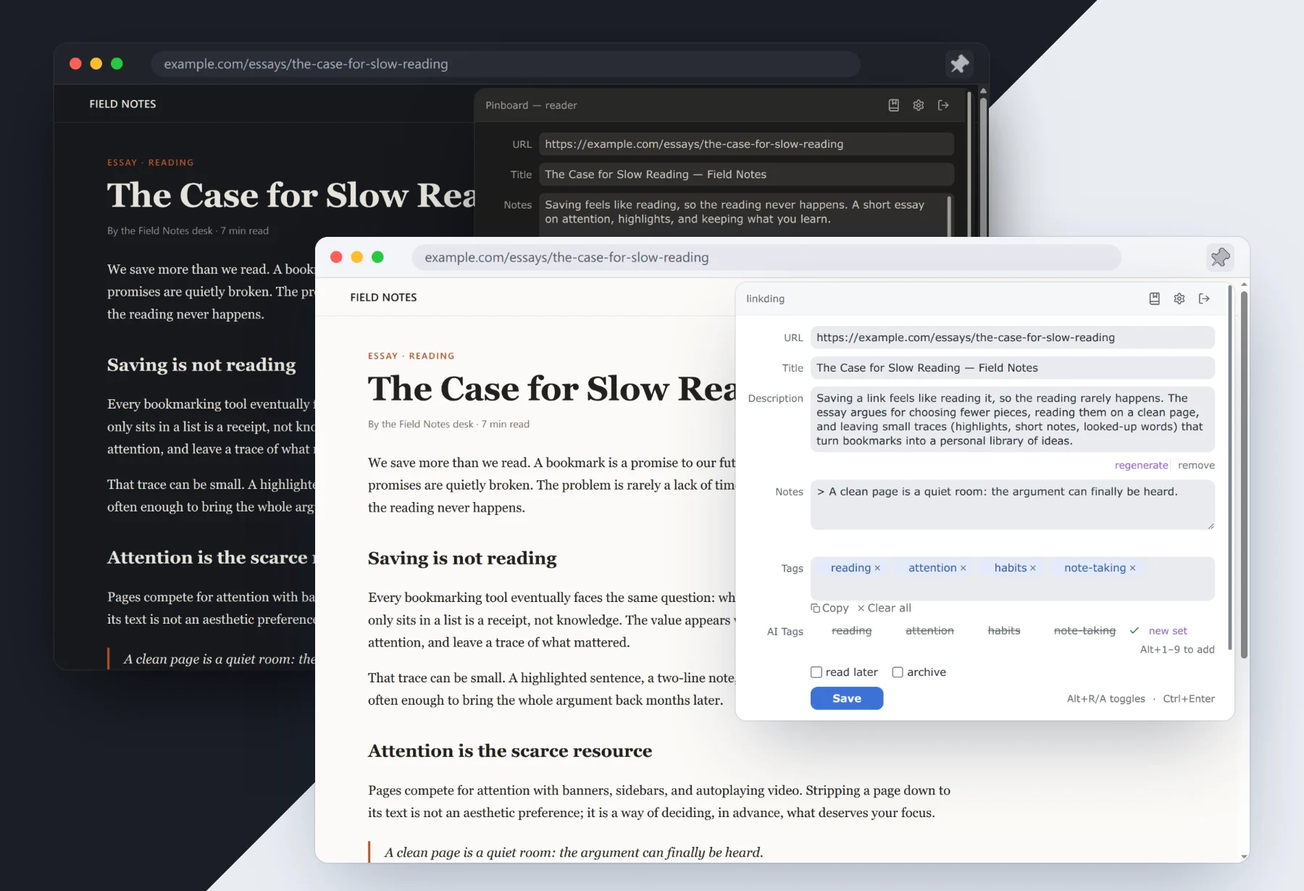
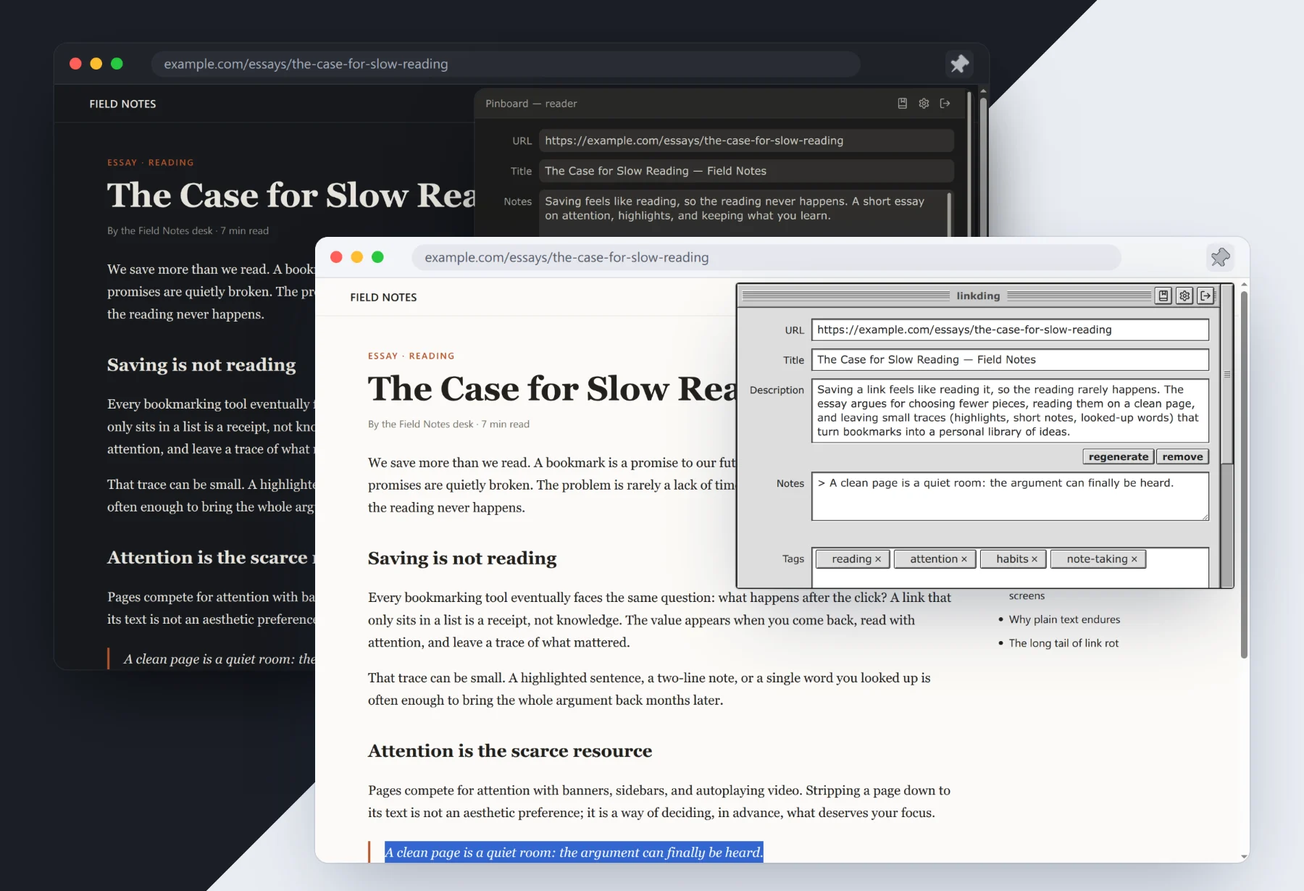
docs(readme): showcase Platinum theme and update 9-locale copy

diff --git a/docs/cws-assets/store-descriptions.md b/docs/cws-assets/store-descriptions.md
@@ -38,7 +38,7 @@
 - Send or download: send articles to your notes app or your own webhook, or save them as e-books for your e-reader.
 
 # Make Pinboard yours
-- 13 themes for pinboard.in: light and dark looks for the site itself, plus room for your own custom CSS.
+- 15 themes for pinboard.in: light and dark looks for the site plus room for your own custom CSS, and classic Platinum can style the extension too.
 - Tidy your tags: merge near-duplicates and prune the ones you rarely use.
 - Auto-archive to the Wayback Machine: pages you save stay readable after the original link dies.
 ```
@@ -69,7 +69,7 @@
 - 发送或下载：把文章发到常用的笔记应用或你自己的 webhook，或者存成电子书放进阅读器。
 
 # 个性化 Pinboard
-- 13 套 pinboard.in 主题：给网站本身换上浅色或深色外观，还能叠加自定义 CSS。
+- 15 套 pinboard.in 主题：给网站本身换上浅色或深色外观并支持自定义 CSS，经典 Platinum 也能套用到扩展界面。
 - 标签治理：合并近似标签，清理不常用的标签。
 - 自动存档到 Wayback Machine：保存过的网页，原链接失效后仍能找回。
 ```
@@ -100,7 +100,7 @@
 - 傳送或下載：把文章傳到常用的筆記應用程式或你自己的 webhook，或存成電子書放進閱讀器。
 
 # 個人化 Pinboard
-- 13 套 pinboard.in 佈景主題：替網站本身換上淺色或深色外觀，還可疊加自訂 CSS。
+- 15 套 pinboard.in 佈景主題：替網站本身換上淺色或深色外觀並支援自訂 CSS，經典 Platinum 也能套用到擴充功能介面。
 - 標籤治理：合併相近標籤，清理不常用的標籤。
 - 自動存檔到 Wayback Machine：儲存過的網頁，原連結失效後仍能找回。
 ```
@@ -131,7 +131,7 @@
 - 傳送或下載：把文章傳到常用的筆記應用程式或你自己的 webhook，或存成電子書放進閱讀器。
 
 # 個人化
-- 13 套 pinboard.in 佈景主題：為網站本身換上淺色或深色外觀，更可疊加自訂 CSS。
+- 15 套 pinboard.in 佈景主題：為網站本身換上淺色或深色外觀並支援自訂 CSS，經典 Platinum 亦可應用於擴充功能介面。
 - 標籤治理：合併相近標籤，清理少用的標籤。
 - 自動存檔至 Wayback Machine：儲存過的網頁，即使原連結失效仍可閱讀。
 ```
@@ -162,7 +162,7 @@
 - Senden oder herunterladen: Artikel an deine Notiz-App oder deinen eigenen Webhook senden oder als E-Book für den E-Reader speichern.
 
 # Pinboard nach deinem Geschmack
-- 13 Themes für pinboard.in: helle und dunkle Looks für die Seite selbst, dazu dein eigenes CSS.
+- 15 Themes für pinboard.in: helle und dunkle Looks für die Seite selbst sowie eigenes CSS; das klassische Platinum-Theme gestaltet auf Wunsch auch die Erweiterung.
 - Tags aufräumen: ähnliche Tags zusammenführen und selten genutzte ausmisten.
 - Automatisch in die Wayback Machine archivieren: Gespeicherte Seiten bleiben lesbar, auch wenn der Originallink nicht mehr funktioniert.
 ```
@@ -193,7 +193,7 @@
 - Envoyer ou télécharger : envoyez vos articles vers votre application de notes ou votre propre webhook, ou enregistrez-les en livre numérique pour votre liseuse.
 
 # Un Pinboard à votre image
-- 13 thèmes pour pinboard.in : des apparences claires et sombres pour le site lui-même, plus votre CSS personnalisé.
+- 15 thèmes pour pinboard.in : des apparences claires et sombres pour le site lui-même avec votre CSS personnalisé, et le thème classique Platinum habille aussi l’extension.
 - Nettoyage des étiquettes : fusionnez les étiquettes quasi identiques et élaguez celles qui servent peu.
 - Archivage automatique dans la Wayback Machine : les pages enregistrées restent lisibles même quand le lien d’origine disparaît.
 ```
@@ -224,7 +224,7 @@
 - 送信もダウンロードも：記事を普段使いのノートアプリや自分の webhook に送ったり、電子書籍として保存してリーダーで読んだりできます。
 
 # カスタマイズ
-- pinboard.in 用テーマ 13 種：サイト自体をライトにもダークにも着せ替えられ、自分のカスタム CSS も重ねられます。
+- pinboard.in 用テーマ 15 種：サイト自体をライトやダークに着せ替えられ独自 CSS も重ねられるほか、クラシックな Platinum は拡張機能にも適用できます。
 - タグ整理：似たタグを統合し、ほとんど使わないタグを片付けます。
 - Wayback Machine へ自動アーカイブ：保存したページは、元のリンクが切れても読めます。
 ```
@@ -255,7 +255,7 @@
 - Wyślij albo pobierz — wyślij artykuł do swojej aplikacji z notatkami lub własnego webhooka albo zapisz go jako e-book na czytnik.
 
 # Pinboard po Twojemu
-- 13 motywów dla pinboard.in — jasne i ciemne wersje samej witryny oraz miejsce na własny CSS.
+- 15 motywów dla pinboard.in — jasne i ciemne wersje samej witryny oraz własny CSS, a klasyczny motyw Platinum zmienia też wygląd rozszerzenia.
 - Porządki w tagach — scalaj niemal identyczne tagi i usuwaj te, których rzadko używasz.
 - Automatyczna archiwizacja w Wayback Machine — zapisane strony da się przeczytać nawet wtedy, gdy oryginalny link przestanie działać.
 ```
@@ -286,7 +286,7 @@
 - Отправить или скачать — отправляйте статьи в своё приложение для заметок или на собственный вебхук либо сохраняйте их как электронные книги для читалки.
 
 # Pinboard под себя
-- 13 тем для pinboard.in — светлое и тёмное оформление самого сайта плюс место для своего CSS.
+- 15 тем для pinboard.in — светлое и тёмное оформление самого сайта и место для своего CSS, а классическая тема Platinum оформляет и само расширение.
 - Порядок в тегах — объединяйте почти одинаковые теги и убирайте те, что почти не используете.
 - Автоархив в Wayback Machine — сохранённые страницы можно будет прочитать, даже когда исходная ссылка перестанет работать.
 ```

diff --git a/README.ru.md b/README.ru.md
@@ -2,7 +2,7 @@
 
 [English](README.md) | [简体中文](README.zh-CN.md) | [繁體中文](README.zh-TW.md) | [繁體中文（香港）](README.zh-HK.md) | [Deutsch](README.de.md) | [Français](README.fr.md) | [日本語](README.ja.md) | [Polski](README.pl.md) | **Русский**
 
-Расширение Chrome для [Pinboard](https://pinboard.in), [Karakeep](https://karakeep.app) и [linkding](https://linkding.link): AI-теги и краткое содержание, режим чтения с переводом и выделениями, а также 13 тем для pinboard.in.
+Расширение Chrome для [Pinboard](https://pinboard.in), [Karakeep](https://karakeep.app) и [linkding](https://linkding.link): AI-теги и краткое содержание, режим чтения с переводом и выделениями, а также 15 тем для pinboard.in.
 
 > **Примечание:** Выберите сервис закладок в настройках. Karakeep и linkding работают без аккаунта Pinboard. Pinboard — независимый **платный** сервис, для которого нужны собственный аккаунт и API-токен. Это стороннее расширение не связано с Pinboard, не спонсируется и не одобряется им.
 
@@ -10,7 +10,7 @@
 [![Version](https://img.shields.io/github/v/release/pine2D/Pinboard-Bookmark-Enhanced?label=version)](https://github.com/pine2D/Pinboard-Bookmark-Enhanced/releases/latest)
 [![License](https://img.shields.io/badge/license-MIT-green)](LICENSE)
 
-![Сохранение с AI-тегами и резюме, тёмная и светлая темы](docs/screenshots/readme/hero.webp)
+![Сохранение с AI-тегами и резюме, тёмная и светлая тема Platinum](docs/screenshots/readme/hero.webp)
 
 [![Минутное видео: сохранить, прочитать, оставить себе](docs/screenshots/readme/promo-video.webp)](https://youtu.be/YWvA_Vux0CI)
 
@@ -45,11 +45,11 @@
 ![Сохранённое слово с контекстом и колонкой словаря](docs/screenshots/readme/vocab.webp)
 
 ### Pinboard под себя
-- **13 тем для pinboard.in** — светлое и тёмное оформление сайта, плюс собственный CSS.
+- **15 тем для pinboard.in** — светлое и тёмное оформление сайта со своим CSS, а классическая тема Platinum оформляет и само расширение.
 - **Порядок в тегах** — объединяйте почти одинаковые теги и убирайте те, что почти не используете.
 - **Автоархив в [Wayback Machine](https://web.archive.org)** — сохранённые страницы можно будет прочитать, даже когда исходная ссылка перестанет работать.
 
-![13 тем для pinboard.in](docs/screenshots/readme/themes.webp)
+![15 тем для pinboard.in](docs/screenshots/readme/themes.webp)
 
 ## Установка
 

diff --git a/README.de.md b/README.de.md
@@ -2,7 +2,7 @@
 
 [English](README.md) | [简体中文](README.zh-CN.md) | [繁體中文](README.zh-TW.md) | [繁體中文（香港）](README.zh-HK.md) | **Deutsch** | [Français](README.fr.md) | [日本語](README.ja.md) | [Polski](README.pl.md) | [Русский](README.ru.md)
 
-Eine Chrome-Erweiterung für [Pinboard](https://pinboard.in), [Karakeep](https://karakeep.app) und [linkding](https://linkding.link): KI-Tags und Zusammenfassungen, ein Reader mit Übersetzung und Markierungen sowie 13 Themes für pinboard.in.
+Eine Chrome-Erweiterung für [Pinboard](https://pinboard.in), [Karakeep](https://karakeep.app) und [linkding](https://linkding.link): KI-Tags und Zusammenfassungen, ein Reader mit Übersetzung und Markierungen sowie 15 Themes für pinboard.in.
 
 > **Hinweis:** Wähle deinen Lesezeichendienst in den Einstellungen. Karakeep und linkding funktionieren ohne Pinboard-Konto. Pinboard ist ein unabhängiger, **kostenpflichtiger** Dienst und erfordert ein eigenes Konto mit API-Token. Diese Erweiterung stammt von einem Drittanbieter, steht in keiner Verbindung zu Pinboard und wird von Pinboard weder gesponsert noch befürwortet.
 
@@ -10,7 +10,7 @@ Eine Chrome-Erweiterung für [Pinboard](https://pinboard.in), [Karakeep](https:/
 [![Version](https://img.shields.io/github/v/release/pine2D/Pinboard-Bookmark-Enhanced?label=version)](https://github.com/pine2D/Pinboard-Bookmark-Enhanced/releases/latest)
 [![License](https://img.shields.io/badge/license-MIT-green)](LICENSE)
 
-![Speichern mit KI-Tags und Zusammenfassung, in dunklem und hellem Theme](docs/screenshots/readme/hero.webp)
+![Speichern mit KI-Tags und Zusammenfassung, im dunklen und hellen Platinum-Theme](docs/screenshots/readme/hero.webp)
 
 [![1-Minuten-Video: speichern, lesen, behalten](docs/screenshots/readme/promo-video.webp)](https://youtu.be/YWvA_Vux0CI)
 
@@ -45,11 +45,11 @@ Eine Chrome-Erweiterung für [Pinboard](https://pinboard.in), [Karakeep](https:/
 ![Gespeichertes Wort mit Kontext und Wörterbuchspalte](docs/screenshots/readme/vocab.webp)
 
 ### Pinboard nach deinem Geschmack
-- **13 Themes für pinboard.in**: helle und dunkle Designs für die Website, dazu dein eigenes CSS.
+- **15 Themes für pinboard.in**: helle und dunkle Designs sowie eigenes CSS; das klassische Platinum-Theme gestaltet auf Wunsch auch die Erweiterung.
 - **Tags aufräumen**: ähnliche Tags zusammenführen und selten genutzte ausmisten.
 - **Automatisch in die [Wayback Machine](https://web.archive.org) archivieren**: Gespeicherte Seiten bleiben lesbar, auch wenn der Originallink nicht mehr funktioniert.
 
-![13 Themes für pinboard.in](docs/screenshots/readme/themes.webp)
+![15 Themes für pinboard.in](docs/screenshots/readme/themes.webp)
 
 ## Installation
 

diff --git a/README.fr.md b/README.fr.md
@@ -2,7 +2,7 @@
 
 [English](README.md) | [简体中文](README.zh-CN.md) | [繁體中文](README.zh-TW.md) | [繁體中文（香港）](README.zh-HK.md) | [Deutsch](README.de.md) | **Français** | [日本語](README.ja.md) | [Polski](README.pl.md) | [Русский](README.ru.md)
 
-Une extension Chrome pour [Pinboard](https://pinboard.in), [Karakeep](https://karakeep.app) et [linkding](https://linkding.link) : étiquettes et résumés par IA, lecteur avec traduction et surlignage, et 13 thèmes pour pinboard.in.
+Une extension Chrome pour [Pinboard](https://pinboard.in), [Karakeep](https://karakeep.app) et [linkding](https://linkding.link) : étiquettes et résumés par IA, lecteur avec traduction et surlignage, et 15 thèmes pour pinboard.in.
 
 > **Remarque :** Choisissez votre service de signets dans les paramètres. Karakeep et linkding fonctionnent sans compte Pinboard. Pinboard est un service indépendant **payant**, qui nécessite votre propre compte et votre jeton API. Cette extension tierce n’est ni affiliée à Pinboard, ni sponsorisée ou approuvée par Pinboard.
 
@@ -10,7 +10,7 @@ Une extension Chrome pour [Pinboard](https://pinboard.in), [Karakeep](https://ka
 [![Version](https://img.shields.io/github/v/release/pine2D/Pinboard-Bookmark-Enhanced?label=version)](https://github.com/pine2D/Pinboard-Bookmark-Enhanced/releases/latest)
 [![License](https://img.shields.io/badge/license-MIT-green)](LICENSE)
 
-![Enregistrement avec étiquettes et résumé par IA, en thème sombre et clair](docs/screenshots/readme/hero.webp)
+![Enregistrement avec étiquettes et résumé par IA, en thème sombre et Platinum clair](docs/screenshots/readme/hero.webp)
 
 [![Vidéo d’une minute : enregistrer, lire, garder](docs/screenshots/readme/promo-video.webp)](https://youtu.be/YWvA_Vux0CI)
 
@@ -45,11 +45,11 @@ Une extension Chrome pour [Pinboard](https://pinboard.in), [Karakeep](https://ka
 ![Mot enregistré avec son contexte et une colonne de dictionnaire](docs/screenshots/readme/vocab.webp)
 
 ### Un Pinboard à votre image
-- **13 thèmes pour pinboard.in** : des apparences claires et sombres pour le site, plus votre propre CSS.
+- **15 thèmes pour pinboard.in** : apparences claires et sombres avec votre propre CSS ; le thème classique Platinum habille aussi l’extension.
 - **Nettoyage des étiquettes** : fusionnez les étiquettes quasi identiques et élaguez celles qui servent peu.
 - **Archivage automatique dans la [Wayback Machine](https://web.archive.org)** : les pages enregistrées restent lisibles même quand le lien d’origine disparaît.
 
-![13 thèmes pour pinboard.in](docs/screenshots/readme/themes.webp)
+![15 thèmes pour pinboard.in](docs/screenshots/readme/themes.webp)
 
 ## Installation
 

diff --git a/README.ja.md b/README.ja.md
@@ -2,7 +2,7 @@
 
 [English](README.md) | [简体中文](README.zh-CN.md) | [繁體中文](README.zh-TW.md) | [繁體中文（香港）](README.zh-HK.md) | [Deutsch](README.de.md) | [Français](README.fr.md) | **日本語** | [Polski](README.pl.md) | [Русский](README.ru.md)
 
-[Pinboard](https://pinboard.in)、[Karakeep](https://karakeep.app)、[linkding](https://linkding.link) に対応した Chrome 拡張機能。AI タグと要約、翻訳・ハイライト付きリーダー、pinboard.in 用テーマ 13 種を備えています。
+[Pinboard](https://pinboard.in)、[Karakeep](https://karakeep.app)、[linkding](https://linkding.link) に対応した Chrome 拡張機能。AI タグと要約、翻訳・ハイライト付きリーダー、pinboard.in 用テーマ 15 種を備えています。
 
 > **注意:** 設定でブックマークサービスを選択します。Karakeep と linkding は Pinboard アカウントなしで使えます。Pinboard は独立した**有料**サービスで、自分のアカウントと API トークンが必要です。本拡張機能は第三者製で、Pinboard との提携・出資・公式の承認はありません。
 
@@ -10,7 +10,7 @@
 [![Version](https://img.shields.io/github/v/release/pine2D/Pinboard-Bookmark-Enhanced?label=version)](https://github.com/pine2D/Pinboard-Bookmark-Enhanced/releases/latest)
 [![License](https://img.shields.io/badge/license-MIT-green)](LICENSE)
 
-![AI タグと要約を付けて保存（ダーク／ライトテーマ）](docs/screenshots/readme/hero.webp)
+![AI タグと要約を付けて保存（ダーク／Platinum ライトテーマ）](docs/screenshots/readme/hero.webp)
 
 [![1 分の紹介動画：保存して、読んで、残す](docs/screenshots/readme/promo-video.webp)](https://youtu.be/YWvA_Vux0CI)
 
@@ -45,11 +45,11 @@
 ![保存した単語：文脈と辞書欄](docs/screenshots/readme/vocab.webp)
 
 ### カスタマイズ
-- **pinboard.in 用テーマ 13 種**：サイトの見た目をライトやダークに変えられ、自分の CSS も使えます。
+- **pinboard.in 用テーマ 15 種**：ライト／ダークの配色と独自 CSS に対応し、クラシックな Platinum は拡張機能にも適用できます。
 - **タグ整理**：似たタグを統合し、ほとんど使わないタグを片付けます。
 - **[Wayback Machine](https://web.archive.org) へ自動アーカイブ**：保存したページは、元のリンクが切れても読めます。
 
-![pinboard.in 用テーマ 13 種](docs/screenshots/readme/themes.webp)
+![pinboard.in 用テーマ 15 種](docs/screenshots/readme/themes.webp)
 
 ## インストール
 

diff --git a/README.pl.md b/README.pl.md
@@ -2,7 +2,7 @@
 
 [English](README.md) | [简体中文](README.zh-CN.md) | [繁體中文](README.zh-TW.md) | [繁體中文（香港）](README.zh-HK.md) | [Deutsch](README.de.md) | [Français](README.fr.md) | [日本語](README.ja.md) | **Polski** | [Русский](README.ru.md)
 
-Rozszerzenie Chrome dla [Pinboard](https://pinboard.in), [Karakeep](https://karakeep.app) i [linkding](https://linkding.link): tagi i streszczenia AI, czytnik z tłumaczeniem i wyróżnieniami oraz 13 motywów dla pinboard.in.
+Rozszerzenie Chrome dla [Pinboard](https://pinboard.in), [Karakeep](https://karakeep.app) i [linkding](https://linkding.link): tagi i streszczenia AI, czytnik z tłumaczeniem i wyróżnieniami oraz 15 motywów dla pinboard.in.
 
 > **Uwaga:** Wybierz usługę zakładek w ustawieniach. Karakeep i linkding działają bez konta Pinboard. Pinboard to niezależna, **płatna** usługa, która wymaga własnego konta i tokenu API. To rozszerzenie jest klientem zewnętrznym, niepowiązanym z Pinboard, niesponsorowanym ani nieautoryzowanym przez ten serwis.
 
@@ -10,7 +10,7 @@ Rozszerzenie Chrome dla [Pinboard](https://pinboard.in), [Karakeep](https://kara
 [![Version](https://img.shields.io/github/v/release/pine2D/Pinboard-Bookmark-Enhanced?label=version)](https://github.com/pine2D/Pinboard-Bookmark-Enhanced/releases/latest)
 [![License](https://img.shields.io/badge/license-MIT-green)](LICENSE)
 
-![Zapis z tagami i streszczeniem od AI, w motywie ciemnym i jasnym](docs/screenshots/readme/hero.webp)
+![Zapis z tagami i streszczeniem od AI, w motywie ciemnym i jasnym Platinum](docs/screenshots/readme/hero.webp)
 
 [![Minutowy film: zapisz, przeczytaj, zachowaj](docs/screenshots/readme/promo-video.webp)](https://youtu.be/YWvA_Vux0CI)
 
@@ -45,11 +45,11 @@ Rozszerzenie Chrome dla [Pinboard](https://pinboard.in), [Karakeep](https://kara
 ![Zapisane słówko z kontekstem i kolumną słownika](docs/screenshots/readme/vocab.webp)
 
 ### Pinboard po Twojemu
-- **13 motywów dla pinboard.in** — jasny i ciemny wygląd witryny, a do tego własny CSS.
+- **15 motywów dla pinboard.in** — jasny i ciemny wygląd witryny oraz własny CSS, a klasyczny motyw Platinum zmienia też wygląd rozszerzenia.
 - **Porządki w tagach** — scalaj niemal identyczne tagi i usuwaj te, których rzadko używasz.
 - **Automatyczna archiwizacja w [Wayback Machine](https://web.archive.org)** — zapisane strony da się przeczytać nawet wtedy, gdy oryginalny link przestanie działać.
 
-![13 motywów dla pinboard.in](docs/screenshots/readme/themes.webp)
+![15 motywów dla pinboard.in](docs/screenshots/readme/themes.webp)
 
 ## Instalacja
 

diff --git a/README.md b/README.md
@@ -2,7 +2,7 @@
 
 **English** | [简体中文](README.zh-CN.md) | [繁體中文](README.zh-TW.md) | [繁體中文（香港）](README.zh-HK.md) | [Deutsch](README.de.md) | [Français](README.fr.md) | [日本語](README.ja.md) | [Polski](README.pl.md) | [Русский](README.ru.md)
 
-A Chrome extension for [Pinboard](https://pinboard.in), [Karakeep](https://karakeep.app) and [linkding](https://linkding.link): AI tags and summaries, a reader with translation and highlights, and 13 themes for pinboard.in.
+A Chrome extension for [Pinboard](https://pinboard.in), [Karakeep](https://karakeep.app) and [linkding](https://linkding.link): AI tags and summaries, a reader with translation and highlights, and 15 themes for pinboard.in.
 
 > **Note:** Choose one bookmark service in Settings. Karakeep and linkding work without a Pinboard account. Pinboard is an independent **paid** service and requires your own account and API token. This third-party extension is not affiliated with, sponsored by, or endorsed by Pinboard.
 
@@ -10,7 +10,7 @@ A Chrome extension for [Pinboard](https://pinboard.in), [Karakeep](https://karak
 [![Version](https://img.shields.io/github/v/release/pine2D/Pinboard-Bookmark-Enhanced?label=version)](https://github.com/pine2D/Pinboard-Bookmark-Enhanced/releases/latest)
 [![License](https://img.shields.io/badge/license-MIT-green)](LICENSE)
 
-![Saving a page with AI tags and summary, in dark and light themes](docs/screenshots/readme/hero.webp)
+![Saving a page with AI tags and summary, in dark and Platinum light themes](docs/screenshots/readme/hero.webp)
 
 [![1-minute video tour: save it, read it, keep it](docs/screenshots/readme/promo-video.webp)](https://youtu.be/YWvA_Vux0CI)
 
@@ -45,11 +45,11 @@ A Chrome extension for [Pinboard](https://pinboard.in), [Karakeep](https://karak
 ![A saved word with its context and a dictionary column](docs/screenshots/readme/vocab.webp)
 
 ### Make Pinboard yours
-- **13 themes for pinboard.in**: light and dark looks for the site, plus your own CSS.
+- **15 themes for pinboard.in**: light and dark looks plus custom CSS, and classic Platinum can style the extension too.
 - **Tidy your tags**: merge near-duplicates and prune the ones you rarely use.
 - **Auto-archive to the [Wayback Machine](https://web.archive.org)**: pages you save stay readable after the original link dies.
 
-![13 themes for pinboard.in](docs/screenshots/readme/themes.webp)
+![15 themes for pinboard.in](docs/screenshots/readme/themes.webp)
 
 ## Install
 

diff --git a/README.zh-TW.md b/README.zh-TW.md
@@ -2,7 +2,7 @@
 
 [English](README.md) | [简体中文](README.zh-CN.md) | **繁體中文** | [繁體中文（香港）](README.zh-HK.md) | [Deutsch](README.de.md) | [Français](README.fr.md) | [日本語](README.ja.md) | [Polski](README.pl.md) | [Русский](README.ru.md)
 
-支援 [Pinboard](https://pinboard.in)、[Karakeep](https://karakeep.app) 和 [linkding](https://linkding.link) 的 Chrome 擴充功能：AI 標籤與摘要、支援翻譯與標記的閱讀器，以及 13 套 pinboard.in 佈景主題。
+支援 [Pinboard](https://pinboard.in)、[Karakeep](https://karakeep.app) 和 [linkding](https://linkding.link) 的 Chrome 擴充功能：AI 標籤與摘要、支援翻譯與標記的閱讀器，以及 15 套 pinboard.in 佈景主題。
 
 > **說明：** 在設定中選擇一種書籤服務。使用 Karakeep 或 linkding 不需要 Pinboard 帳號。Pinboard 是獨立的**付費**服務，使用時需自備帳號與 API Token。本擴充功能是第三方用戶端，與 Pinboard 無隸屬、贊助或背書關係。
 
@@ -10,7 +10,7 @@
 [![Version](https://img.shields.io/github/v/release/pine2D/Pinboard-Bookmark-Enhanced?label=version)](https://github.com/pine2D/Pinboard-Bookmark-Enhanced/releases/latest)
 [![License](https://img.shields.io/badge/license-MIT-green)](LICENSE)
 
-![AI 產生標籤與摘要後儲存，深色與淺色主題](docs/screenshots/readme/hero.webp)
+![AI 產生標籤與摘要後儲存，深色與 Platinum 淺色主題](docs/screenshots/readme/hero.webp)
 
 [![1 分鐘影片介紹：儲存、閱讀、留存](docs/screenshots/readme/promo-video.webp)](https://youtu.be/YWvA_Vux0CI)
 
@@ -45,11 +45,11 @@
 ![生詞詳情：原文語境與詞典參考欄](docs/screenshots/readme/vocab.webp)
 
 ### 個人化 Pinboard
-- **13 套 pinboard.in 佈景主題**：為網站換上淺色或深色外觀，還可疊加自訂 CSS。
+- **15 套 pinboard.in 佈景主題**：提供淺色與深色外觀及自訂 CSS；經典 Platinum 也能套用到擴充功能介面。
 - **標籤治理**：合併相近標籤，清理不常用的標籤。
 - **自動存檔到 [Wayback Machine](https://web.archive.org)**：儲存過的網頁，原連結失效後仍能找回。
 
-![13 套 pinboard.in 佈景主題](docs/screenshots/readme/themes.webp)
+![15 套 pinboard.in 佈景主題](docs/screenshots/readme/themes.webp)
 
 ## 安裝
 

diff --git a/README.zh-HK.md b/README.zh-HK.md
@@ -2,7 +2,7 @@
 
 [English](README.md) | [简体中文](README.zh-CN.md) | [繁體中文](README.zh-TW.md) | **繁體中文（香港）** | [Deutsch](README.de.md) | [Français](README.fr.md) | [日本語](README.ja.md) | [Polski](README.pl.md) | [Русский](README.ru.md)
 
-支援 [Pinboard](https://pinboard.in)、[Karakeep](https://karakeep.app) 和 [linkding](https://linkding.link) 的 Chrome 擴充功能：AI 標籤與摘要、支援翻譯與高亮的閱讀器，以及 13 套 pinboard.in 網站主題。
+支援 [Pinboard](https://pinboard.in)、[Karakeep](https://karakeep.app) 和 [linkding](https://linkding.link) 的 Chrome 擴充功能：AI 標籤與摘要、支援翻譯與高亮的閱讀器，以及 15 套 pinboard.in 網站主題。
 
 > **說明：** 在設定選擇一種書籤服務。使用 Karakeep 或 linkding 無需 Pinboard 帳號。Pinboard 是獨立的**付費**服務，使用時需自備帳號及 API Token。本擴充功能是第三方客戶端，與 Pinboard 沒有隸屬、贊助或認可關係。
 
@@ -10,7 +10,7 @@
 [![Version](https://img.shields.io/github/v/release/pine2D/Pinboard-Bookmark-Enhanced?label=version)](https://github.com/pine2D/Pinboard-Bookmark-Enhanced/releases/latest)
 [![License](https://img.shields.io/badge/license-MIT-green)](LICENSE)
 
-![AI 生成標籤與摘要後儲存，深色與淺色主題](docs/screenshots/readme/hero.webp)
+![AI 生成標籤與摘要後儲存，深色與 Platinum 淺色主題](docs/screenshots/readme/hero.webp)
 
 [![1 分鐘影片介紹：儲存、閱讀、留存](docs/screenshots/readme/promo-video.webp)](https://youtu.be/YWvA_Vux0CI)
 
@@ -45,11 +45,11 @@
 ![生詞詳情：原文語境與詞典參考欄](docs/screenshots/readme/vocab.webp)
 
 ### 個人化
-- **13 套 pinboard.in 佈景主題**：為網站換上淺色或深色外觀，亦可加上自訂 CSS。
+- **15 套 pinboard.in 佈景主題**：提供淺色與深色外觀及自訂 CSS；經典 Platinum 亦可應用於擴充功能介面。
 - **標籤治理**：合併相近標籤，清理少用的標籤。
 - **自動存檔至 [Wayback Machine](https://web.archive.org)**：儲存過的網頁，即使原連結失效仍可閱讀。
 
-![13 套 pinboard.in 佈景主題](docs/screenshots/readme/themes.webp)
+![15 套 pinboard.in 佈景主題](docs/screenshots/readme/themes.webp)
 
 ## 安裝
 

diff --git a/README.zh-CN.md b/README.zh-CN.md
@@ -2,7 +2,7 @@
 
 [English](README.md) | **简体中文** | [繁體中文](README.zh-TW.md) | [繁體中文（香港）](README.zh-HK.md) | [Deutsch](README.de.md) | [Français](README.fr.md) | [日本語](README.ja.md) | [Polski](README.pl.md) | [Русский](README.ru.md)
 
-支持 [Pinboard](https://pinboard.in)、[Karakeep](https://karakeep.app) 和 [linkding](https://linkding.link) 的 Chrome 扩展：AI 标签与摘要、带翻译和高亮的阅读器，以及 13 套 pinboard.in 站点主题。
+支持 [Pinboard](https://pinboard.in)、[Karakeep](https://karakeep.app) 和 [linkding](https://linkding.link) 的 Chrome 扩展：AI 标签与摘要、带翻译和高亮的阅读器，以及 15 套 pinboard.in 站点主题。
 
 > **说明：** 在设置中选择一种书签服务。使用 Karakeep 或 linkding 无需 Pinboard 账号。Pinboard 是独立的**付费**服务，使用时需自备账号和 API Token。本扩展是第三方客户端，与 Pinboard 官方无关，未获其赞助或认可。
 
@@ -10,7 +10,7 @@
 [![Version](https://img.shields.io/github/v/release/pine2D/Pinboard-Bookmark-Enhanced?label=version)](https://github.com/pine2D/Pinboard-Bookmark-Enhanced/releases/latest)
 [![License](https://img.shields.io/badge/license-MIT-green)](LICENSE)
 
-![AI 生成标签和摘要后保存，深色与浅色主题](docs/screenshots/readme/hero.webp)
+![AI 生成标签和摘要后保存，深色与 Platinum 浅色主题](docs/screenshots/readme/hero.webp)
 
 [![1 分钟视频介绍：保存、阅读、留存](docs/screenshots/readme/promo-video.webp)](https://youtu.be/YWvA_Vux0CI)
 
@@ -45,11 +45,11 @@
 ![生词详情：原文语境与词典参考栏](docs/screenshots/readme/vocab.webp)
 
 ### 个性化 Pinboard
-- **13 套 pinboard.in 主题**：给网站换上浅色或深色外观，还能叠加自定义 CSS。
+- **15 套 pinboard.in 主题**：提供浅色与深色外观及自定义 CSS；经典 Platinum 也能套用到扩展界面。
 - **标签治理**：合并近似标签，清理不常用的标签。
 - **自动存档到 [Wayback Machine](https://web.archive.org)**：保存过的网页，原链接失效后仍能找回。
 
-![13 套 pinboard.in 主题](docs/screenshots/readme/themes.webp)
+![15 套 pinboard.in 主题](docs/screenshots/readme/themes.webp)
 
 ## 安装
 

diff --git a/docs/index.md b/docs/index.md
@@ -5,7 +5,7 @@ title: Bookmark Enhanced
 
 # Bookmark Enhanced
 
-A Chrome extension for [Pinboard](https://pinboard.in), [Karakeep](https://karakeep.app) and [linkding](https://linkding.link): AI tags and summaries, a reader with translation and highlights, and 13 themes for pinboard.in.
+A Chrome extension for [Pinboard](https://pinboard.in), [Karakeep](https://karakeep.app) and [linkding](https://linkding.link): AI tags and summaries, a reader with translation and highlights, and 15 themes for pinboard.in.
 
 - Save to Pinboard, Karakeep or linkding, with AI tags and summaries from your own API key; a DeepSeek key adds PDF/image OCR and voice.
 - Read any page in a clean reader: translate it, ask it questions with cited answers, and look up words in place.
